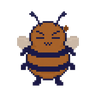
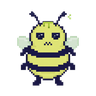
Bitter bee redrawn as a milder Yucky, halfway to Bland
Claude-Session: https://claude.ai/code/session_015yU5Zx4fb5oUGBboTMWZMk

Changed region(s): [[0.1562, 0.2188, 0.8438, 0.5625], [0.2812, 0.5625, 0.7188, 0.8438], [0.6875, 0.125, 0.75, 0.2188]]

diff --git a/tools/content/draw_yucky_bitter.py b/tools/content/draw_yucky_bitter.py
@@ -1,4 +1,4 @@
-# Draws the two bottom-tier bees, Yucky (spoiled honey) and Bitter (burnt honey), from the 1600px normal-bee master.
+# Draws the two bottom-tier bees, Yucky (spoiled honey) and Bitter (a milder Yucky, halfway to Bland), from the 1600px normal-bee master.
 # Usage: python3 draw_yucky_bitter.py <folder holding keep/assets/bee-normal.png> [out folder]; then resize to 320/144/96 for public/img.
 import sys, colorsys
 from PIL import Image, ImageDraw
@@ -43,13 +43,15 @@ for (x, y) in ((420, 250), (1130, 230)):
     rows(d, x, y, [".s", "s.", ".s", "s."], {"s": (150, 200, 80)})
 yuk.save(f"{OUT}/bee-yucky.png")
 
-# ---- BITTER (40): burnt honey: dark amber-brown, scrunched eyes under cross brows, grimace
-bit = recolor(base, body=lambda h, s, v: rgb(0.075, min(1, s * 0.9), v * 0.66), wings=lambda h, s, v: rgb(0.08, 0.18, v * 0.85))
-d, F = face_wipe(bit)
-rows(d, 602, 512, ["xx...", "..xx.", "....x", ".....", "xxxxx"], N)      # brow slants in, eye squeezed to a line
-rows(d, 863, 512, ["...xx", ".xx..", "x....", ".....", "xxxxx"], N)
-rows(d, 733, 705, ["x.x.x", ".x.x."], N)                         # zig-zag grimace
-DROP = (120, 60, 15)
-rows(d, 1060, 420, [".d.", "ddd", "ddd", ".d."], {"d": DROP})   # a bead of burnt honey
+# ---- BITTER (40): a milder Yucky, halfway to Bland: yellow-green, a queasy squint, one small drip
+bit = recolor(base, body=lambda h, s, v: rgb(0.175, s * 0.58, v * 0.9), wings=lambda h, s, v: rgb(0.3, s * 0.4 + 0.03, v * 0.95))
+d = ImageDraw.Draw(bit); F = bit.getpixel((800, 640))[:3]
+for x0 in (596, 857): d.rectangle([x0, 496, x0 + 146, 545], fill=F + (255,))       # lids lowered a little: a queasy squint
+for x0 in (602, 863): d.rectangle([x0 + 8, 546, x0 + 126, 546 + U - 1], fill=NAVY + (255,))
+d.rectangle([728, 682, 872, 772], fill=F + (255,))
+rows(d, 733, 700, [".x.x.", "x.x.x"], N)                                          # wobbly, queasy mouth
+GOO, GOO2 = (170, 200, 60), (120, 150, 35)
+rows(d, 720, 362, ["gggggg", "g..g..", "h..g..", "...h.."], {"g": GOO, "h": GOO2})  # one small drip
+rows(d, 1130, 240, [".s", "s.", ".s"], {"s": (170, 205, 100)})                    # a single faint stink line
 bit.save(f"{OUT}/bee-bitter.png")
 print("ok")
